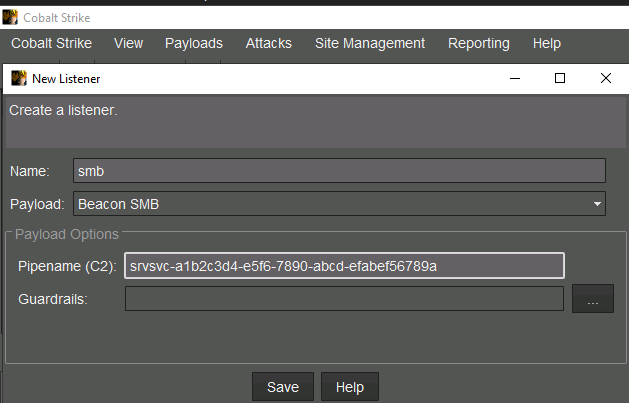
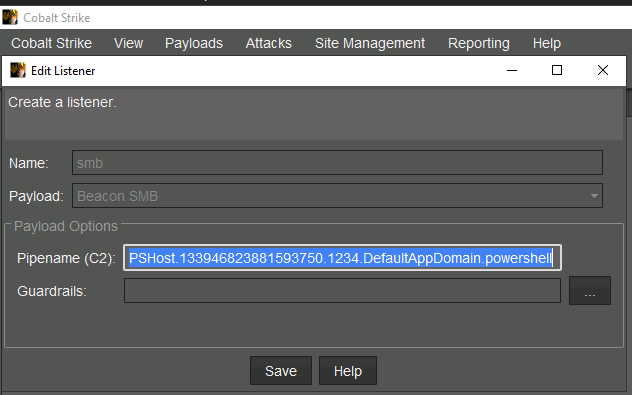
123321

diff --git a/labs/2-Cobalt-Strike-Primer.md b/labs/2-Cobalt-Strike-Primer.md
@@ -62,10 +62,21 @@ Add the following listeners:
 
 # Generate Payloads
 
-1. Generate payloads for each listener.
-  1. Go to **Payloads > Windows Stageless Generate All Payloads**
-  1. Folder: `C:\Payloads`
-  1. Click **Generate**
+> ⚠ **PREREQUISITE — First Update C2 Malleable Profile**  
+
+> First update [Defence evasion Malleable C2 profile](https://github.com/botesjuan/CRTO-Study-Notes/blob/main/labs/defence-evasion-lab-Malleable.md#part-1--malleable-c2-profile)
+
+<img src="/images/malleable-c2-profile-updates.png">  
+
+> 1. Malleable C2 profile active (docker restart)  
+> 2. Artifact Kit built → ThreatCheck clean → `artifact.cna` loaded in Script Manager  
+> 3. Resource Kit built → ThreatCheck AMSI clean → `resources.cna` loaded in Script Manager  
+>
+> Now generate payloads — they will use the custom artifact stubs.
+
+1. Go to **Payloads > Windows Stageless Generate All Payloads**
+2. Folder: `C:\Payloads`
+3. Click **Generate**
 
 <img src="/images/generate_payloads.png">  
 
